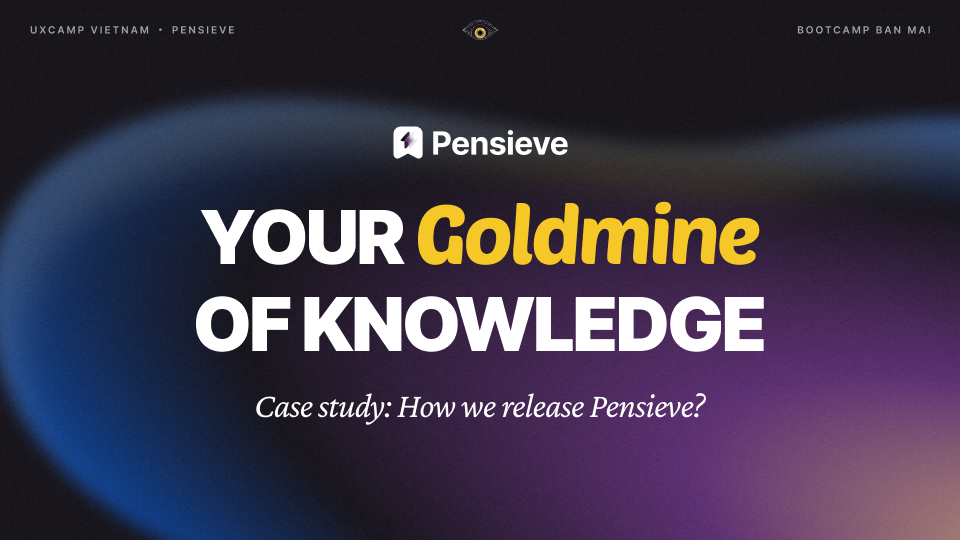
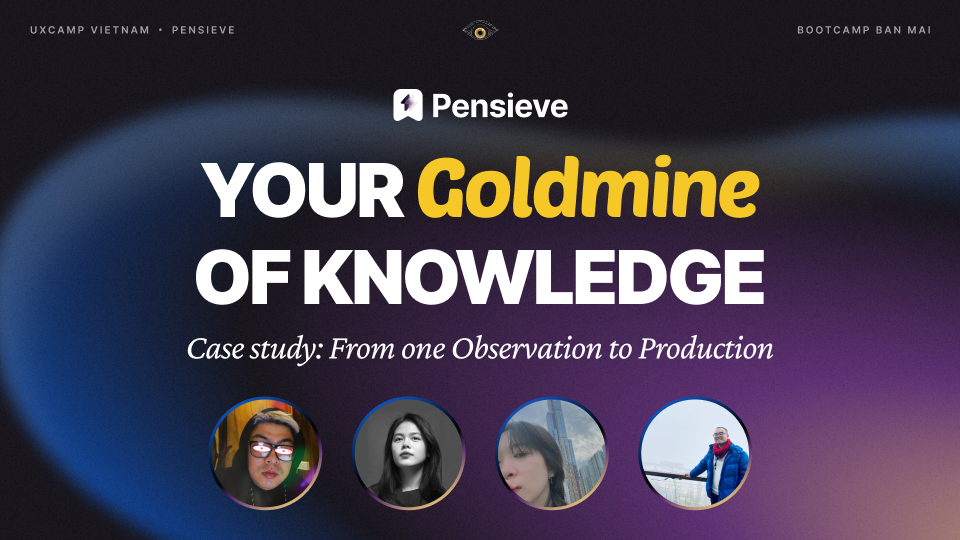
update thumbnail case study

Changed region(s): [[0.1875, 0.1481, 0.8125, 0.6815], [0.2188, 0.7111, 0.7812, 0.9481]]

diff --git a/index.html b/index.html
@@ -1206,12 +1206,6 @@
 								<img class="case-study-thumbnail" src="asset/image/case-study/meezy.webp">
 							</a>
 
-							<!-- <a class="col-12 col-md-6 col-lg-4 case-study-container" target="_blank"
-								href="https://www.figma.com/slides/BUABv4qA96XBWrLMH2V0b6/4ce---Vietnam-Career-Explorer">
-								<img class="case-study-thumbnail"
-									src="asset/image/case-study/vietnam-career-explorer.webp">
-							</a> -->
-
 							<a class="col-12 col-md-6 col-lg-4 case-study-container" data-case-study="Ant Manga" target="_blank"
 								href="https://www.figma.com/design/gW5uFwjn9a2tcJQbsryBwR/Ant-Manga-Case-Study">
 								<img class="case-study-thumbnail" src="asset/image/case-study/antmanga.webp">

diff --git a/script/script.js b/script/script.js
@@ -533,7 +533,6 @@ const observer = new ResizeObserver(entries => {
 observer.observe(document.body);
 
 
-
 // track case-study click
 
 document.querySelectorAll(".case-study-container").forEach(link => {
